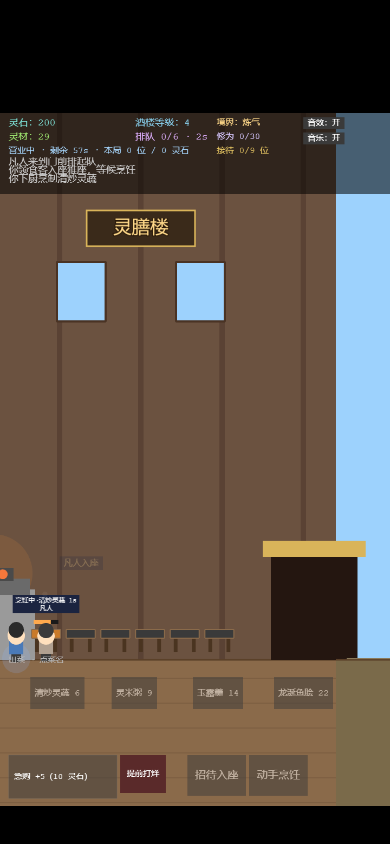
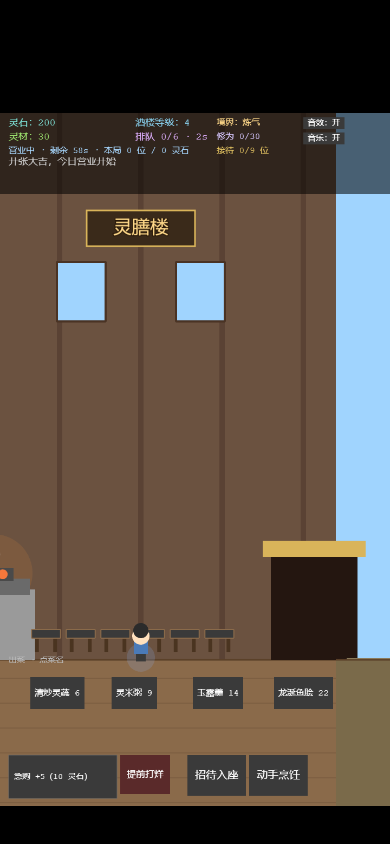
导航改两列四行：左栏按钮从 28px 提到约 41px
- 8 个打烊期导航按钮改为两列四行（16/360 x 760/864/968/1072），每格约 75 设计高
- 开始营业按钮不再在营业中缩回小尺寸，只换配色/字号，保持大触控区
- 390×844 复测：六面板一次关闭、底栏/导航高 75 设计（约 41 CSS px）
- 截图与试玩记录同步

测试：46 条单测、tsc、生产构建通过。

diff --git a/src/main.ts b/src/main.ts
@@ -1040,11 +1040,11 @@ class TavernScene extends Phaser.Scene {
     this.purchaseButton = new ProgressButton(this, 16, 1186, 200, 80, () => this.startPurchase(), this.registerUi);
     this.startButton = this.addUiButton(222, 1186, () => this.onStartButton(), { x: 12, y: 28 }, 6, "20px");
 
-    // 打烊期的经营按钮（屏幕左侧竖排）
-    const nav = { x: 12, y: 14 };
+    // 打烊期的经营按钮：两列四行，保证每格都是可点的大按钮
+    const nav = { x: 12, y: 28 };
     this.staffButton = this.addUiButton(
       16,
-      700,
+      760,
       () => {
         this.staffNotice = "";
         this.buildStaffOverlay();
@@ -1053,13 +1053,13 @@ class TavernScene extends Phaser.Scene {
       6,
       "20px",
     );
-    this.upgradeButton = this.addUiButton(16, 760, () => this.buildBuildOverlay(), nav, 6, "20px");
-    this.genderButton = this.addUiButton(16, 820, () => this.toggleGender(), nav, 6, "20px");
-    this.bankButton = this.addUiButton(16, 880, () => this.buildBankOverlay(), nav, 6, "20px");
-    this.cultivationButton = this.addUiButton(16, 940, () => this.buildCultivationOverlay(), nav, 6, "20px");
-    this.helpButton = this.addUiButton(16, 1000, () => this.showHelp(), nav, 6, "20px");
-    this.recordButton = this.addUiButton(16, 1060, () => this.buildRecordOverlay(), nav, 6, "20px");
-    this.saveButton = this.addUiButton(16, 1120, () => this.openSaveDialog("export"), nav, 6, "20px");
+    this.upgradeButton = this.addUiButton(16, 864, () => this.buildBuildOverlay(), nav, 6, "20px");
+    this.genderButton = this.addUiButton(16, 968, () => this.toggleGender(), nav, 6, "20px");
+    this.bankButton = this.addUiButton(16, 1072, () => this.buildBankOverlay(), nav, 6, "20px");
+    this.cultivationButton = this.addUiButton(360, 760, () => this.buildCultivationOverlay(), nav, 6, "20px");
+    this.helpButton = this.addUiButton(360, 864, () => this.showHelp(), nav, 6, "20px");
+    this.recordButton = this.addUiButton(360, 968, () => this.buildRecordOverlay(), nav, 6, "20px");
+    this.saveButton = this.addUiButton(360, 1072, () => this.openSaveDialog("export"), nav, 6, "20px");
 
     this.buildBoothVisuals();
     this.positionUi(false);
@@ -2613,12 +2613,11 @@ class TavernScene extends Phaser.Scene {
   }
 
   private positionUi(isOpen: boolean) {
-    // 打烊时「开始营业」是主行动，放大突出；营业中收成普通大小的「提前打烊」
+    // 打烊时「开始营业」是主行动；营业中换成「提前打烊」配色。高度保持大按钮。
     this.startButton.setStyle({
-      fontSize: isOpen ? "15px" : "22px",
+      fontSize: isOpen ? "17px" : "20px",
       color: "#ffffff",
       backgroundColor: isOpen ? "#5a2a2a" : "#3f6a3f",
-      padding: isOpen ? { x: 10, y: 8 } : { x: 24, y: 12 },
     });
     this.boothVisuals.forEach((v) => {
       v.bg.setVisible(isOpen);

diff --git a/docs/playtest.md b/docs/playtest.md
@@ -51,7 +51,7 @@
 | 第四次盲测：选形象按钮下缘点不中，弹窗像自己关了 | 字号 28→32、内边距加大、命中区 +18px；实测点女按钮下缘（455,448）选中女性。同时修复了 `expandHitArea` 对已 `setInteractive` 文本不生效的问题——之前写的扩大命中区其实没生效 |
 | 第四次盲测：菜单写「+12 灵石 + 收入 15%」，结算却 +23，费解 | 菜单和打烊视图统一为「奖励：基础 12 灵石 + 当日收入 15%」，明确 15% 是另加的 |
 
-仍保留的盲测意见：手机字号整体偏小（现已把雅座标签 10→12、见闻录 13→18、顶部 HUD 15–20、底栏/导航按钮 15→20，并给关键反馈加屏幕浮字；底栏与关闭条已做到约 41–43 CSS px，左侧竖排导航仍约 28 CSS px，低于 44px 的触控建议值）；全自动产线仍是“只看不管也能赚灵石”的路线，但**修为只来自亲自下厨**，想飞升必须下场；队列尾部仍要拖动镜头。
+仍保留的盲测意见：手机字号整体偏小（现已把雅座标签 10→12、见闻录 13→18、顶部 HUD 15–20、底栏/导航按钮 15→20，并给关键反馈加屏幕浮字；底栏、出菜行、关闭条与两列导航现在都在 36–43 CSS px，接近但仍未全部达到 44px 的触控建议值）；全自动产线仍是“只看不管也能赚灵石”的路线，但**修为只来自亲自下厨**，想飞升必须下场；队列尾部仍要拖动镜头。
 
 ### 第二次盲测后的修复复测（2026-10-24，本轮）
 
@@ -73,7 +73,7 @@
 - 门口候客只露半身：队列基准位 390→350、间距 70→52。复测单人屏幕 x≈610（右缘留 110px），两人 610/662 都在画布内；营业镜头中心 100。
 - 顶部目标被裁、日志压在世界画面上：目标文本 300px 自动换行；主 HUD 18px、境界/修为 16px、见闻录 18px 且每条截到 34 字；状态栏 104→150，三行记录落在深色底内。
 - 雇工回本不透明：未雇佣行补日薪；伙计面板写明灶上不读口味。
-- 手机按钮偏小：底栏「开张/招待/烹饪」与左栏导航字号 15→20、内边距加大；采购按钮改为 200×80。390×844 实测底栏按钮高 75–76 设计（约 41 CSS px），出菜行每道菜约 36 CSS px，二级页关闭条 80 设计（约 43 CSS px）；左侧竖排导航受 60 设计行距限制仍约 28 CSS px。
+- 手机按钮偏小：底栏「开张/招待/烹饪」与左栏导航字号 15→20、内边距加大；采购按钮改为 200×80。390×844 实测底栏与两列导航按钮高 75–76 设计（约 41 CSS px），出菜行每道菜约 36 CSS px，二级页关闭条 80 设计（约 43 CSS px）。
 
 仍然刻意保留、没有改成“惩罚式”设计的两点：
 - 全自动产线仍可 0 操作净赚（第三轮实测 8 位/57 灵石，扣日薪 18 净 39），但口味只命中 1/3、修为 0；想拿满价或飞升必须自己下场。把自动线改成亏损会逼所有玩家微操，和“可挂机看店”的定位冲突。
@@ -87,7 +87,7 @@
 - 目标刷新一致：未复现；第 3 天升 2 级并刷新后仍是「满足 2 位口味」。
 - 队列可见性：设计师称第 4 天「排队 2/4」只看到一人。本机复测两名候客在屏幕设计坐标 x=610/662（720 宽画布内），未复现裁切；猜测是第二名还在 0.7 秒入场行走中截图，未再改动。
 - 关闭：设计师在第 2/3/5 天多次点不中关闭。本版改成底部整条大按钮后，本机脚本对六个二级页各点一次全部关闭；仍未能在真人手指上复验。
-- 按钮大小：设计师量到底栏约 29px 高；本版底栏已加到约 41 CSS px、关闭条约 43 CSS px、出菜行约 36 CSS px，左侧竖排导航仍是 28px，未做整体布局重排。
+- 按钮大小：设计师量到底栏约 29px 高；本版底栏与两列导航已加到约 41 CSS px、关闭条约 43 CSS px、出菜行约 36 CSS px。左侧导航由 8 个竖排小按钮改成两列四行，行距与命中区都放大。
 - 出菜：休闲玩家点「清炒灵蔬」上缘（y=1080）没反应，以为上菜坏了。出菜行已上移放大，本机在 y=1050 与 y=1080 点第一道菜均成功进入玩家烹饪；真机手指仍需复验。
 - 首日没有实质决策仍是两人共同意见：20 灵石、8 灵材、目标 6，唯一稳妥解是直接开张。保留为教学局，没有为了“有决策”而调高首日难度。
 
